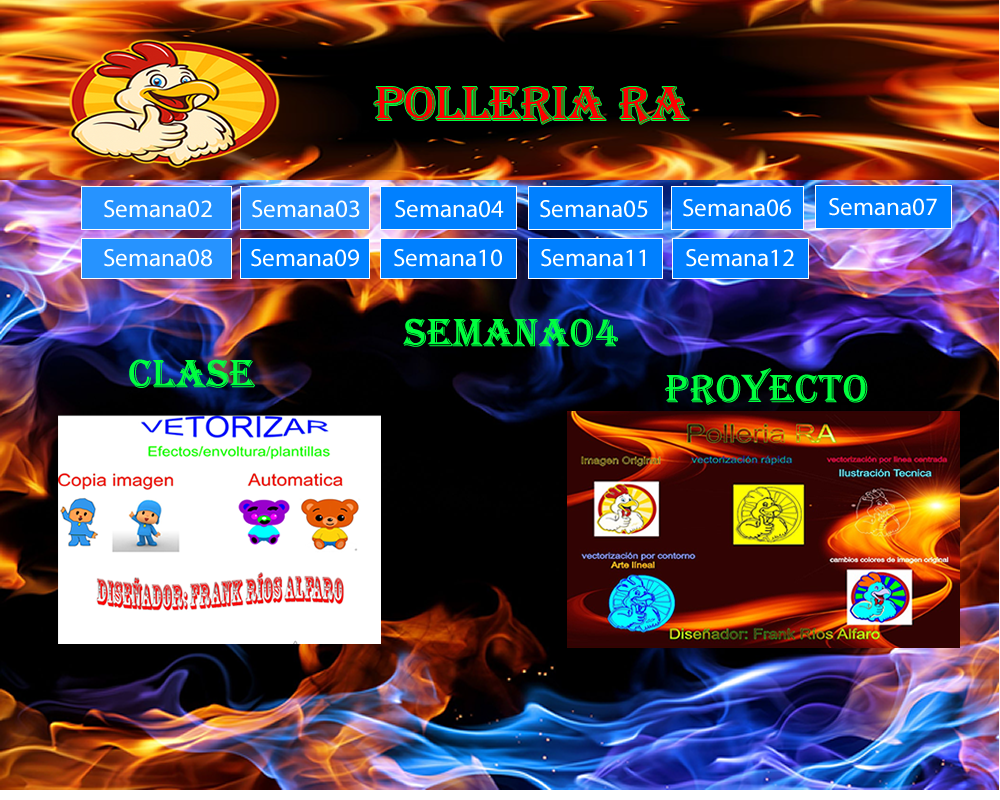
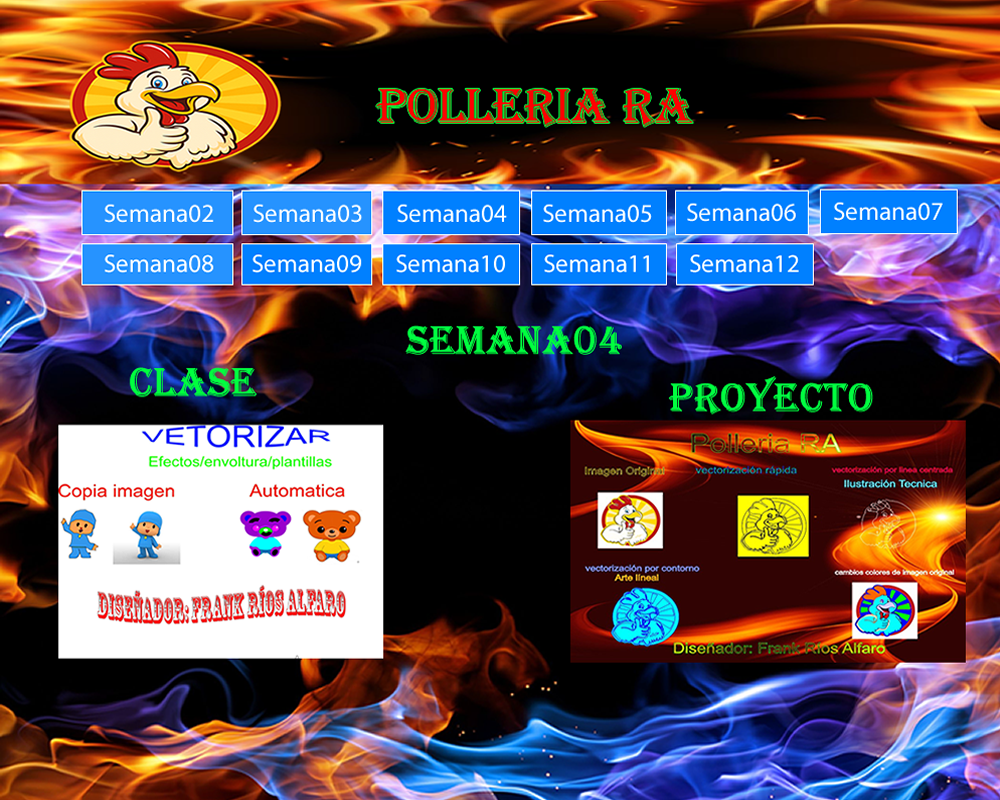
Add files via upload

diff --git a/s05.html b/s05.html
@@ -5,21 +5,22 @@
 <head>
 <title>s05</title>
 <meta http-equiv="Content-Type" content="text/html; charset=utf-8" />
-<!--Fireworks CS6 Dreamweaver CS6 target.  Created Wed Jun 18 21:56:32 GMT-0500 2025-->
+<!--Fireworks CS6 Dreamweaver CS6 target.  Created Tue Jul 01 18:12:34 GMT-0500 2025-->
 </head>
-<body bgcolor="#ffffff"style="text-align: center">
+<body bgcolor="#ffffff" style="text-align: center">
 <img name="s05" src="s05.png" width="1000" height="800" id="s05" usemap="#m_s05" alt="" /><map name="m_s05" id="m_s05">
-<area shape="rect" coords="673,239,808,278" href="s12.html" alt="" />
-<area shape="rect" coords="528,238,661,277" href="s11.html" alt="" />
-<area shape="rect" coords="381,239,516,278" href="s10.html" alt="" />
-<area shape="rect" coords="241,239,369,278" href="s09.html" alt="" />
-<area shape="rect" coords="82,238,231,277" href="s08.html" alt="" />
-<area shape="rect" coords="817,186,952,227" href="s07.html" alt="" />
-<area shape="rect" coords="673,187,804,229" href="s06.html" alt="" />
-<area shape="rect" coords="529,188,662,227" href="s05.html" alt="" />
-<area shape="rect" coords="381,188,516,228" href="s04.html" alt="" />
-<area shape="rect" coords="241,187,369,229" href="s03.html" alt="" />
-<area shape="rect" coords="81,187,230,229" href="s02.html" alt="" />
+<area shape="rect" coords="64,29,281,171" href="index.html" alt="" />
+<area shape="rect" coords="675,243,810,282" href="s12.html" alt="" />
+<area shape="rect" coords="530,244,663,283" href="s11.html" alt="" />
+<area shape="rect" coords="381,243,516,282" href="s10.html" alt="" />
+<area shape="rect" coords="240,244,368,283" href="s09.html" alt="" />
+<area shape="rect" coords="80,244,229,283" href="s08.html" alt="" />
+<area shape="rect" coords="820,190,955,231" href="s07.html" alt="" />
+<area shape="rect" coords="673,191,804,233" href="s06.html" alt="" />
+<area shape="rect" coords="530,192,663,231" href="s05.html" alt="" />
+<area shape="rect" coords="382,192,517,232" href="s04.html" alt="" />
+<area shape="rect" coords="241,190,369,232" href="s03.html" alt="" />
+<area shape="rect" coords="80,191,229,233" href="s02.html" alt="" />
 </map>
 </body>
 </html>

diff --git a/s03.html b/s03.html
@@ -5,21 +5,22 @@
 <head>
 <title>s03</title>
 <meta http-equiv="Content-Type" content="text/html; charset=utf-8" />
-<!--Fireworks CS6 Dreamweaver CS6 target.  Created Wed Jun 18 21:43:16 GMT-0500 2025-->
+<!--Fireworks CS6 Dreamweaver CS6 target.  Created Tue Jul 01 18:08:12 GMT-0500 2025-->
 </head>
 <body bgcolor="#ffffff" style="text-align: center">
 <img name="s03" src="s03.png" width="1000" height="800" id="s03" usemap="#m_s03" alt="" /><map name="m_s03" id="m_s03">
-<area shape="rect" coords="673,239,808,278" href="s12.html" alt="" />
-<area shape="rect" coords="528,238,661,277" href="s11.html" alt="" />
-<area shape="rect" coords="381,239,516,278" href="s10.html" alt="" />
-<area shape="rect" coords="241,239,369,278" href="s09.html" alt="" />
-<area shape="rect" coords="82,238,231,277" href="s08.html" alt="" />
-<area shape="rect" coords="817,186,952,227" href="s07.html" alt="" />
-<area shape="rect" coords="673,187,804,229" href="s06.html" alt="" />
-<area shape="rect" coords="529,188,662,227" href="s05.html" alt="" />
-<area shape="rect" coords="381,188,516,228" href="s04.html" alt="" />
-<area shape="rect" coords="241,187,369,229" href="s03.html" alt="" />
-<area shape="rect" coords="81,187,230,229" href="s02.html" alt="" />
+<area shape="rect" coords="64,29,281,171" href="index.html" alt="" />
+<area shape="rect" coords="673,242,808,281" href="s12.html" alt="" />
+<area shape="rect" coords="528,242,661,281" href="s11.html" alt="" />
+<area shape="rect" coords="381,241,516,280" href="s10.html" alt="" />
+<area shape="rect" coords="241,242,369,281" href="s09.html" alt="" />
+<area shape="rect" coords="82,243,231,282" href="s08.html" alt="" />
+<area shape="rect" coords="817,189,952,230" href="s07.html" alt="" />
+<area shape="rect" coords="673,189,804,231" href="s06.html" alt="" />
+<area shape="rect" coords="529,191,662,230" href="s05.html" alt="" />
+<area shape="rect" coords="381,190,516,230" href="s04.html" alt="" />
+<area shape="rect" coords="241,190,369,232" href="s03.html" alt="" />
+<area shape="rect" coords="81,188,230,230" href="s02.html" alt="" />
 </map>
 </body>
 </html>

diff --git a/s04.html b/s04.html
@@ -5,21 +5,22 @@
 <head>
 <title>s04</title>
 <meta http-equiv="Content-Type" content="text/html; charset=utf-8" />
-<!--Fireworks CS6 Dreamweaver CS6 target.  Created Wed Jun 18 21:47:59 GMT-0500 2025-->
+<!--Fireworks CS6 Dreamweaver CS6 target.  Created Tue Jul 01 18:10:34 GMT-0500 2025-->
 </head>
 <body bgcolor="#ffffff" style="text-align: center">
 <img name="s04" src="s04.png" width="1000" height="800" id="s04" usemap="#m_s04" alt="" /><map name="m_s04" id="m_s04">
-<area shape="rect" coords="673,239,808,278" href="s12.html" alt="" />
-<area shape="rect" coords="528,238,661,277" href="s11.html" alt="" />
-<area shape="rect" coords="381,239,516,278" href="s10.html" alt="" />
-<area shape="rect" coords="241,239,369,278" href="s09.html" alt="" />
-<area shape="rect" coords="82,238,231,277" href="s08.html" alt="" />
-<area shape="rect" coords="817,186,952,227" href="s07.html" alt="" />
-<area shape="rect" coords="673,187,804,229" href="s06.html" alt="" />
-<area shape="rect" coords="529,188,662,227" href="s05.html" alt="" />
-<area shape="rect" coords="381,188,516,228" href="s04.html" alt="" />
-<area shape="rect" coords="241,187,369,229" href="s03.html" alt="" />
-<area shape="rect" coords="81,187,230,229" href="s02.html" alt="" />
+<area shape="rect" coords="64,29,281,171" href="index.html" alt="" />
+<area shape="rect" coords="678,243,813,282" href="s12.html" alt="" />
+<area shape="rect" coords="531,244,664,283" href="s11.html" alt="" />
+<area shape="rect" coords="382,243,517,282" href="s10.html" alt="" />
+<area shape="rect" coords="242,244,370,283" href="s09.html" alt="" />
+<area shape="rect" coords="82,244,231,283" href="s08.html" alt="" />
+<area shape="rect" coords="820,191,955,232" href="s07.html" alt="" />
+<area shape="rect" coords="675,191,806,233" href="s06.html" alt="" />
+<area shape="rect" coords="533,192,666,231" href="s05.html" alt="" />
+<area shape="rect" coords="383,192,518,232" href="s04.html" alt="" />
+<area shape="rect" coords="241,191,369,233" href="s03.html" alt="" />
+<area shape="rect" coords="82,192,231,234" href="s02.html" alt="" />
 </map>
 </body>
 </html>

diff --git a/s06.html b/s06.html
@@ -5,21 +5,22 @@
 <head>
 <title>s06</title>
 <meta http-equiv="Content-Type" content="text/html; charset=utf-8" />
-<!--Fireworks CS6 Dreamweaver CS6 target.  Created Thu Jun 19 19:11:19 GMT-0500 2025-->
+<!--Fireworks CS6 Dreamweaver CS6 target.  Created Tue Jul 01 18:13:53 GMT-0500 2025-->
 </head>
 <body bgcolor="#ffffff" style="text-align: center">
 <img name="s06" src="s06.png" width="1000" height="800" id="s06" usemap="#m_s06" alt="" /><map name="m_s06" id="m_s06">
-<area shape="rect" coords="673,239,808,278" href="s12.html" alt="" />
-<area shape="rect" coords="528,238,661,277" href="s11.html" alt="" />
-<area shape="rect" coords="381,239,516,278" href="s10.html" alt="" />
-<area shape="rect" coords="241,239,369,278" href="s09.html" alt="" />
-<area shape="rect" coords="82,238,231,277" href="s08.html" alt="" />
-<area shape="rect" coords="817,186,952,227" href="s07.html" alt="" />
-<area shape="rect" coords="673,187,804,229" href="s06.html" alt="" />
-<area shape="rect" coords="529,188,662,227" href="s05.html" alt="" />
-<area shape="rect" coords="381,188,516,228" href="s04.html" alt="" />
-<area shape="rect" coords="241,187,369,229" href="s03.html" alt="" />
-<area shape="rect" coords="81,187,230,229" href="s02.html" alt="" />
+<area shape="rect" coords="64,29,281,171" href="index.html" alt="" />
+<area shape="rect" coords="673,240,808,279" href="s12.html" alt="" />
+<area shape="rect" coords="528,239,661,278" href="s11.html" alt="" />
+<area shape="rect" coords="380,241,515,280" href="s10.html" alt="" />
+<area shape="rect" coords="240,241,368,280" href="s09.html" alt="" />
+<area shape="rect" coords="80,241,229,280" href="s08.html" alt="" />
+<area shape="rect" coords="818,186,953,227" href="s07.html" alt="" />
+<area shape="rect" coords="673,190,804,232" href="s06.html" alt="" />
+<area shape="rect" coords="529,190,662,229" href="s05.html" alt="" />
+<area shape="rect" coords="382,189,517,229" href="s04.html" alt="" />
+<area shape="rect" coords="241,190,369,232" href="s03.html" alt="" />
+<area shape="rect" coords="81,191,230,233" href="s02.html" alt="" />
 </map>
 </body>
 </html>

diff --git a/s12.html b/s12.html
@@ -5,21 +5,22 @@
 <head>
 <title>s12</title>
 <meta http-equiv="Content-Type" content="text/html; charset=utf-8" />
-<!--Fireworks CS6 Dreamweaver CS6 target.  Created Thu Jun 19 20:46:22 GMT-0500 2025-->
+<!--Fireworks CS6 Dreamweaver CS6 target.  Created Tue Jul 01 18:22:06 GMT-0500 2025-->
 </head>
 <body bgcolor="#ffffff" style="text-align: center">
 <img name="s12" src="s12.png" width="1000" height="800" id="s12" usemap="#m_s12" alt="" /><map name="m_s12" id="m_s12">
-<area shape="rect" coords="673,239,808,278" href="s12.html" alt="" />
-<area shape="rect" coords="528,238,661,277" href="s11.html" alt="" />
-<area shape="rect" coords="381,239,516,278" href="s10.html" alt="" />
-<area shape="rect" coords="241,239,369,278" href="s09.html" alt="" />
-<area shape="rect" coords="82,238,231,277" href="s08.html" alt="" />
-<area shape="rect" coords="817,186,952,227" href="s07.html" alt="" />
-<area shape="rect" coords="673,187,804,229" href="s06.html" alt="" />
-<area shape="rect" coords="529,188,662,227" href="s05.html" alt="" />
+<area shape="rect" coords="94,20,311,162" href="index.html" alt="" />
+<area shape="rect" coords="672,239,807,278" href="s12.html" alt="" />
+<area shape="rect" coords="528,239,661,278" href="s11.html" alt="" />
+<area shape="rect" coords="380,238,515,277" href="s10.html" alt="" />
+<area shape="rect" coords="240,238,368,277" href="s09.html" alt="" />
+<area shape="rect" coords="80,238,229,277" href="s08.html" alt="" />
+<area shape="rect" coords="817,185,952,226" href="s07.html" alt="" />
+<area shape="rect" coords="672,186,803,228" href="s06.html" alt="" />
+<area shape="rect" coords="529,187,662,226" href="s05.html" alt="" />
 <area shape="rect" coords="381,188,516,228" href="s04.html" alt="" />
-<area shape="rect" coords="240,187,368,229" href="s03.html" alt="" />
-<area shape="rect" coords="82,186,231,228" href="s02.html" alt="" />
+<area shape="rect" coords="241,187,369,229" href="s03.html" alt="" />
+<area shape="rect" coords="81,187,230,229" href="s02.html" alt="" />
 </map>
 </body>
 </html>

diff --git a/s07.html b/s07.html
@@ -5,21 +5,22 @@
 <head>
 <title>s07</title>
 <meta http-equiv="Content-Type" content="text/html; charset=utf-8" />
-<!--Fireworks CS6 Dreamweaver CS6 target.  Created Thu Jun 19 19:43:56 GMT-0500 2025-->
+<!--Fireworks CS6 Dreamweaver CS6 target.  Created Tue Jul 01 18:15:06 GMT-0500 2025-->
 </head>
 <body bgcolor="#ffffff" style="text-align: center">
 <img name="s07" src="s07.png" width="1000" height="800" id="s07" usemap="#m_s07" alt="" /><map name="m_s07" id="m_s07">
-<area shape="rect" coords="673,239,808,278" href="s12.html" alt="" />
-<area shape="rect" coords="528,238,661,277" href="s11.html" alt="" />
-<area shape="rect" coords="381,239,516,278" href="s10.html" alt="" />
-<area shape="rect" coords="241,239,369,278" href="s09.html" alt="" />
-<area shape="rect" coords="82,238,231,277" href="s08.html" alt="" />
+<area shape="rect" coords="93,24,310,166" href="index.html" alt="" />
+<area shape="rect" coords="672,239,807,278" href="s12.html" alt="" />
+<area shape="rect" coords="528,239,661,278" href="s11.html" alt="" />
+<area shape="rect" coords="380,238,515,277" href="s10.html" alt="" />
+<area shape="rect" coords="240,239,368,278" href="s09.html" alt="" />
+<area shape="rect" coords="80,239,229,278" href="s08.html" alt="" />
 <area shape="rect" coords="817,186,952,227" href="s07.html" alt="" />
-<area shape="rect" coords="673,187,804,229" href="s06.html" alt="" />
+<area shape="rect" coords="672,187,803,229" href="s06.html" alt="" />
 <area shape="rect" coords="529,188,662,227" href="s05.html" alt="" />
-<area shape="rect" coords="381,188,516,228" href="s04.html" alt="" />
-<area shape="rect" coords="240,187,368,229" href="s03.html" alt="" />
-<area shape="rect" coords="82,186,231,228" href="s02.html" alt="" />
+<area shape="rect" coords="382,188,517,228" href="s04.html" alt="" />
+<area shape="rect" coords="241,188,369,230" href="s03.html" alt="" />
+<area shape="rect" coords="81,188,230,230" href="s02.html" alt="" />
 </map>
 </body>
 </html>

diff --git a/s08.html b/s08.html
@@ -5,21 +5,22 @@
 <head>
 <title>s08</title>
 <meta http-equiv="Content-Type" content="text/html; charset=utf-8" />
-<!--Fireworks CS6 Dreamweaver CS6 target.  Created Thu Jun 19 19:49:40 GMT-0500 2025-->
+<!--Fireworks CS6 Dreamweaver CS6 target.  Created Tue Jul 01 18:15:55 GMT-0500 2025-->
 </head>
 <body bgcolor="#ffffff" style="text-align: center">
 <img name="s08" src="s08.png" width="1000" height="800" id="s08" usemap="#m_s08" alt="" /><map name="m_s08" id="m_s08">
-<area shape="rect" coords="673,239,808,278" href="s12.html" alt="" />
-<area shape="rect" coords="528,238,661,277" href="s11.html" alt="" />
-<area shape="rect" coords="381,239,516,278" href="s10.html" alt="" />
-<area shape="rect" coords="241,239,369,278" href="s09.html" alt="" />
-<area shape="rect" coords="82,238,231,277" href="s08.html" alt="" />
+<area shape="rect" coords="94,21,311,163" href="index.html" alt="" />
+<area shape="rect" coords="672,239,807,278" href="s12.html" alt="" />
+<area shape="rect" coords="528,239,661,278" href="s11.html" alt="" />
+<area shape="rect" coords="380,238,515,277" href="s10.html" alt="" />
+<area shape="rect" coords="240,239,368,278" href="s09.html" alt="" />
+<area shape="rect" coords="80,239,229,278" href="s08.html" alt="" />
 <area shape="rect" coords="817,186,952,227" href="s07.html" alt="" />
-<area shape="rect" coords="673,187,804,229" href="s06.html" alt="" />
+<area shape="rect" coords="672,187,803,229" href="s06.html" alt="" />
 <area shape="rect" coords="529,188,662,227" href="s05.html" alt="" />
-<area shape="rect" coords="381,188,516,228" href="s04.html" alt="" />
-<area shape="rect" coords="240,187,368,229" href="s03.html" alt="" />
-<area shape="rect" coords="82,186,231,228" href="s02.html" alt="" />
+<area shape="rect" coords="382,188,517,228" href="s04.html" alt="" />
+<area shape="rect" coords="241,188,369,230" href="s03.html" alt="" />
+<area shape="rect" coords="81,188,230,230" href="s02.html" alt="" />
 </map>
 </body>
 </html>

diff --git a/s09.html b/s09.html
@@ -5,21 +5,22 @@
 <head>
 <title>s09</title>
 <meta http-equiv="Content-Type" content="text/html; charset=utf-8" />
-<!--Fireworks CS6 Dreamweaver CS6 target.  Created Thu Jun 19 19:52:45 GMT-0500 2025-->
+<!--Fireworks CS6 Dreamweaver CS6 target.  Created Tue Jul 01 18:16:39 GMT-0500 2025-->
 </head>
 <body bgcolor="#ffffff" style="text-align: center">
 <img name="s09" src="s09.png" width="1000" height="800" id="s09" usemap="#m_s09" alt="" /><map name="m_s09" id="m_s09">
-<area shape="rect" coords="673,239,808,278" href="s12.html" alt="" />
-<area shape="rect" coords="528,238,661,277" href="s11.html" alt="" />
-<area shape="rect" coords="381,239,516,278" href="s10.html" alt="" />
-<area shape="rect" coords="241,239,369,278" href="s09.html" alt="" />
-<area shape="rect" coords="82,238,231,277" href="s08.html" alt="" />
+<area shape="rect" coords="94,21,311,163" href="index.html" alt="" />
+<area shape="rect" coords="672,239,807,278" href="s12.html" alt="" />
+<area shape="rect" coords="528,239,661,278" href="s11.html" alt="" />
+<area shape="rect" coords="380,238,515,277" href="s10.html" alt="" />
+<area shape="rect" coords="240,239,368,278" href="s09.html" alt="" />
+<area shape="rect" coords="80,239,229,278" href="s08.html" alt="" />
 <area shape="rect" coords="817,186,952,227" href="s07.html" alt="" />
-<area shape="rect" coords="673,187,804,229" href="s06.html" alt="" />
+<area shape="rect" coords="672,187,803,229" href="s06.html" alt="" />
 <area shape="rect" coords="529,188,662,227" href="s05.html" alt="" />
-<area shape="rect" coords="381,188,516,228" href="s04.html" alt="" />
-<area shape="rect" coords="240,187,368,229" href="s03.html" alt="" />
-<area shape="rect" coords="82,186,231,228" href="s02.html" alt="" />
+<area shape="rect" coords="382,188,517,228" href="s04.html" alt="" />
+<area shape="rect" coords="241,188,369,230" href="s03.html" alt="" />
+<area shape="rect" coords="81,188,230,230" href="s02.html" alt="" />
 </map>
 </body>
 </html>

diff --git a/s10.html b/s10.html
@@ -5,21 +5,22 @@
 <head>
 <title>s10</title>
 <meta http-equiv="Content-Type" content="text/html; charset=utf-8" />
-<!--Fireworks CS6 Dreamweaver CS6 target.  Created Thu Jun 19 19:55:08 GMT-0500 2025-->
+<!--Fireworks CS6 Dreamweaver CS6 target.  Created Tue Jul 01 18:19:20 GMT-0500 2025-->
 </head>
 <body bgcolor="#ffffff" style="text-align: center">
 <img name="s10" src="s10.png" width="1000" height="800" id="s10" usemap="#m_s10" alt="" /><map name="m_s10" id="m_s10">
-<area shape="rect" coords="673,239,808,278" href="s12.html" alt="" />
-<area shape="rect" coords="528,238,661,277" href="s11.html" alt="" />
-<area shape="rect" coords="381,239,516,278" href="s10.html" alt="" />
-<area shape="rect" coords="241,239,369,278" href="s09.html" alt="" />
-<area shape="rect" coords="82,238,231,277" href="s08.html" alt="" />
+<area shape="rect" coords="94,21,311,163" href="index.html" alt="" />
+<area shape="rect" coords="672,239,807,278" href="s12.html" alt="" />
+<area shape="rect" coords="528,239,661,278" href="s11.html" alt="" />
+<area shape="rect" coords="380,238,515,277" href="s10.html" alt="" />
+<area shape="rect" coords="240,239,368,278" href="s09.html" alt="" />
+<area shape="rect" coords="80,239,229,278" href="s08.html" alt="" />
 <area shape="rect" coords="817,186,952,227" href="s07.html" alt="" />
-<area shape="rect" coords="673,187,804,229" href="s06.html" alt="" />
+<area shape="rect" coords="672,187,803,229" href="s06.html" alt="" />
 <area shape="rect" coords="529,188,662,227" href="s05.html" alt="" />
-<area shape="rect" coords="381,188,516,228" href="s04.html" alt="" />
-<area shape="rect" coords="240,187,368,229" href="s03.html" alt="" />
-<area shape="rect" coords="82,186,231,228" href="s02.html" alt="" />
+<area shape="rect" coords="382,188,517,228" href="s04.html" alt="" />
+<area shape="rect" coords="241,188,369,230" href="s03.html" alt="" />
+<area shape="rect" coords="81,188,230,230" href="s02.html" alt="" />
 </map>
 </body>
 </html>

diff --git a/s11.html b/s11.html
@@ -5,21 +5,22 @@
 <head>
 <title>s11</title>
 <meta http-equiv="Content-Type" content="text/html; charset=utf-8" />
-<!--Fireworks CS6 Dreamweaver CS6 target.  Created Thu Jun 19 20:42:07 GMT-0500 2025-->
+<!--Fireworks CS6 Dreamweaver CS6 target.  Created Tue Jul 01 18:20:15 GMT-0500 2025-->
 </head>
 <body bgcolor="#ffffff" style="text-align: center">
 <img name="s11" src="s11.png" width="1000" height="800" id="s11" usemap="#m_s11" alt="" /><map name="m_s11" id="m_s11">
-<area shape="rect" coords="673,239,808,278" href="s12.html" alt="" />
-<area shape="rect" coords="528,238,661,277" href="s11.html" alt="" />
-<area shape="rect" coords="381,239,516,278" href="s10.html" alt="" />
-<area shape="rect" coords="241,239,369,278" href="s09.html" alt="" />
-<area shape="rect" coords="82,238,231,277" href="s08.html" alt="" />
+<area shape="rect" coords="94,21,311,163" href="index.html" alt="" />
+<area shape="rect" coords="672,239,807,278" href="s12.html" alt="" />
+<area shape="rect" coords="528,239,661,278" href="s11.html" alt="" />
+<area shape="rect" coords="380,238,515,277" href="s10.html" alt="" />
+<area shape="rect" coords="240,239,368,278" href="s09.html" alt="" />
+<area shape="rect" coords="80,239,229,278" href="s08.html" alt="" />
 <area shape="rect" coords="817,186,952,227" href="s07.html" alt="" />
-<area shape="rect" coords="673,187,804,229" href="s06.html" alt="" />
+<area shape="rect" coords="672,187,803,229" href="s06.html" alt="" />
 <area shape="rect" coords="529,188,662,227" href="s05.html" alt="" />
-<area shape="rect" coords="381,188,516,228" href="s04.html" alt="" />
-<area shape="rect" coords="240,187,368,229" href="s03.html" alt="" />
-<area shape="rect" coords="82,186,231,228" href="s02.html" alt="" />
+<area shape="rect" coords="382,188,517,228" href="s04.html" alt="" />
+<area shape="rect" coords="241,188,369,230" href="s03.html" alt="" />
+<area shape="rect" coords="81,188,230,230" href="s02.html" alt="" />
 </map>
 </body>
 </html>

diff --git a/s02.html b/s02.html
@@ -5,10 +5,11 @@
 <head>
 <title>s02</title>
 <meta http-equiv="Content-Type" content="text/html; charset=utf-8" />
-<!--Fireworks CS6 Dreamweaver CS6 target.  Created Wed Jun 18 21:41:33 GMT-0500 2025-->
+<!--Fireworks CS6 Dreamweaver CS6 target.  Created Tue Jul 01 18:02:56 GMT-0500 2025-->
 </head>
 <body bgcolor="#ffffff" style="text-align: center">
 <img name="s02" src="s02.png" width="1000" height="800" id="s02" usemap="#m_s02" alt="" /><map name="m_s02" id="m_s02">
+<area shape="rect" coords="64,29,281,171" href="index.html" alt="" />
 <area shape="rect" coords="673,239,808,278" href="s12.html" alt="" />
 <area shape="rect" coords="528,238,661,277" href="s11.html" alt="" />
 <area shape="rect" coords="381,239,516,278" href="s10.html" alt="" />
